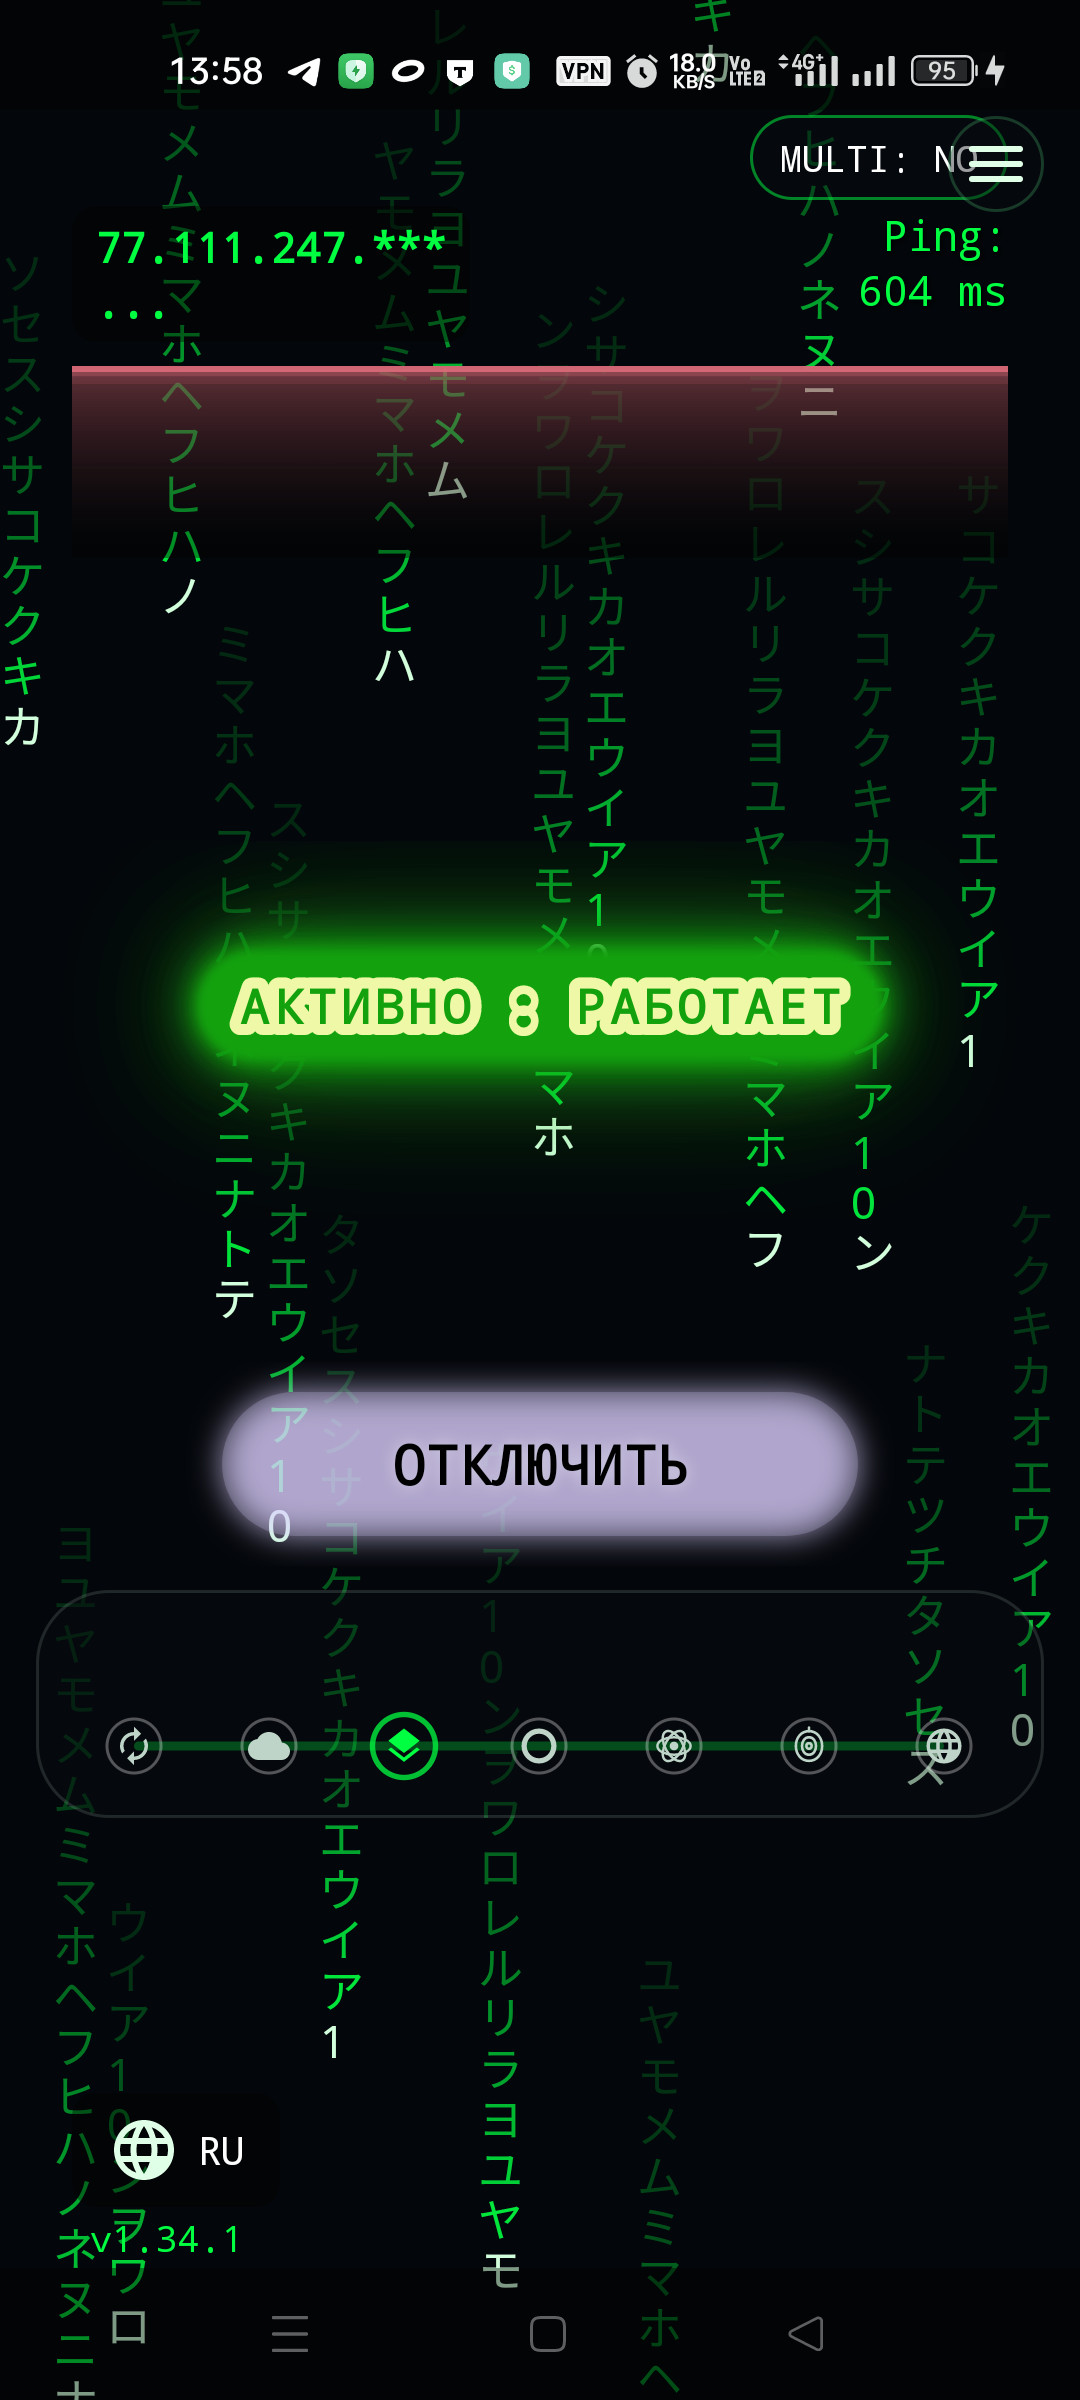
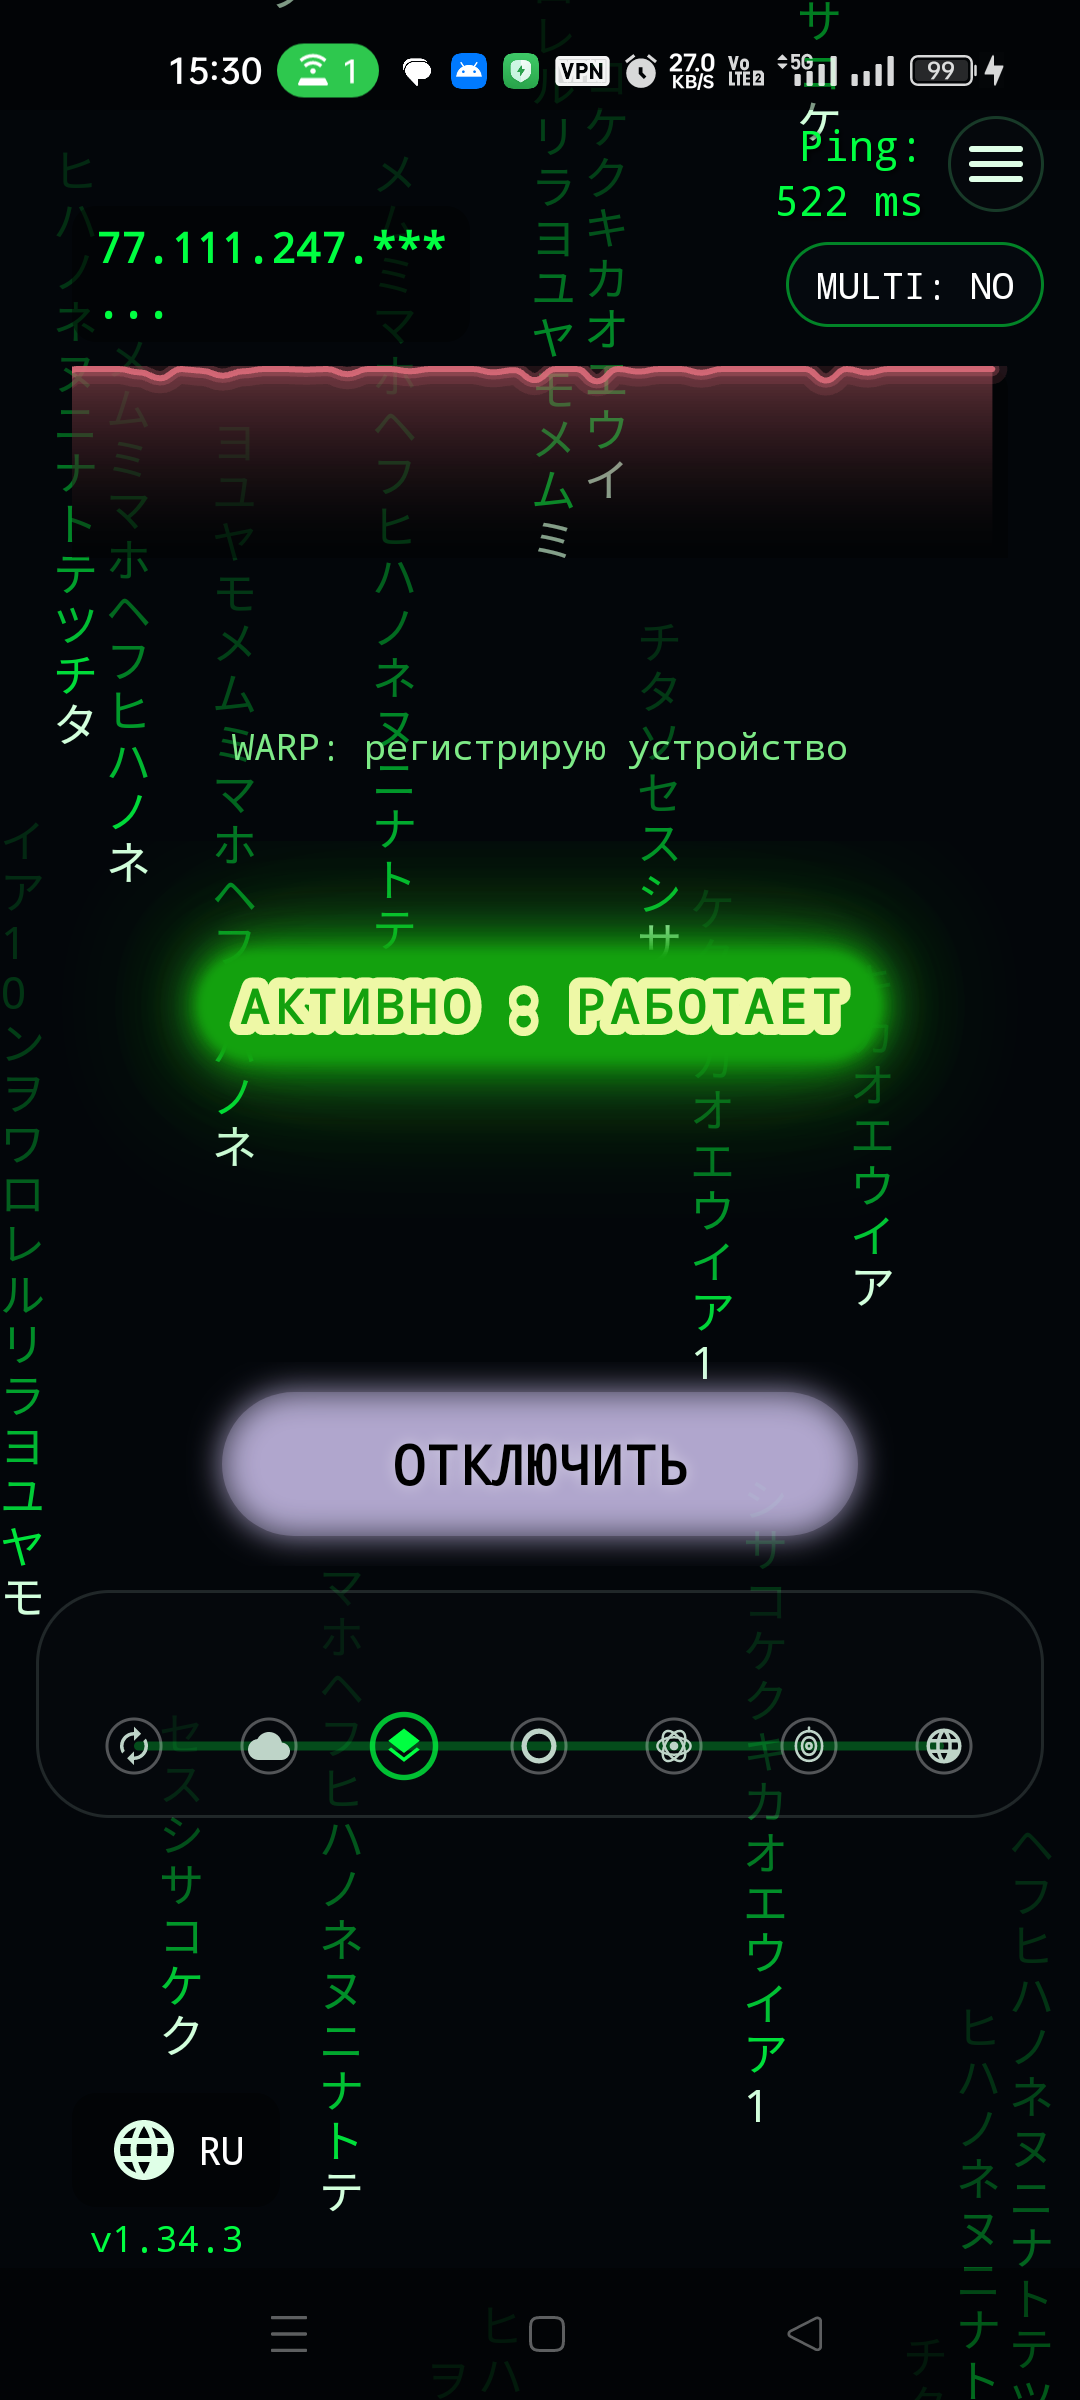
ui: ping left of hamburger, country badge under it (1.34.3)

diff --git a/app/src/main/java/com/example/nova/MainActivity.kt b/app/src/main/java/com/example/nova/MainActivity.kt
@@ -1484,6 +1484,10 @@ class MainActivity : AppCompatActivity() {
             set.connect(R.id.btn_install_update, end, split, start, dp(16))
             set.clear(R.id.tv_country_badge, bottom)
             set.connect(R.id.tv_country_badge, top, R.id.btnConnect, bottom, dp(10))
+            // В портрете пинг стоит слева от бейджа страны; в горизонтали бейдж
+            // уезжает в среднюю колонку, поэтому пинг возвращаем к графику.
+            set.connect(R.id.tv_internet_label, top, R.id.ll_ip_row, top, 0)
+            set.connect(R.id.tv_internet_label, end, R.id.graph_latency, end, 0)
             set.connect(R.id.graph_latency, start, logEdge, start, landscapeInsetLeft + dp(12))
             set.connect(R.id.graph_latency, end, split, start, dp(16))
             set.constrainHeight(R.id.graph_latency, dp(48))

diff --git a/docs/fork/VERIFICATION.md b/docs/fork/VERIFICATION.md
@@ -609,6 +609,22 @@ PIDs `:vpn` и `libnova-desync.so` не менялись, `tun0` на месте
 - MULTI с DESYNC как PRIMARY и Opera как SECONDARY: на этой сети регистрация
   Opera не проходит, поэтому SECONDARY отключается через 6 с / 3 плана, а
   сеанс продолжается.
+
+### Главный экран: правый верхний угол (2026-11-04, 1.34.3)
+
+- Устройство: realme RMX3370, 1080×2400, release `1.34.3` (167), установлен
+  поверх 1.34.2 (`adb install -r` → `Success`).
+- Отключённое состояние (бейдж `gone`): `tv_internet_label [774,116][924,228]`,
+  `btn_settings [948,116][1044,212]`, `tv_ip_address [72,206][470,342]` —
+  пересечений нет.
+- Подключённое состояние (MULTI): `tv_country_badge [786,242][1044,327]`,
+  `tv_internet_label [774,116][924,228]`, `btn_settings [948,116][1044,212]` —
+  бейдж под гамбургером, пинг слева от него, наложений нет.
+- Горизонталь (2160×1080): `tv_country_badge [691,703][949,788]` под
+  `btnConnect`, `tv_internet_label [1286,745][1436,857]` у графика — как и
+  задумано, пересечений нет.
+- Скриншоты: `docs/screenshots/main.png` (обновлён под 1.34.3).
+
 - Живой прогон: `nova-router` на 127.0.0.1:1373 (2 слота, 1 правило),
   `libnova-desync.so` на 1376, `tun0 10.1.11.1`, состояние `CONNECTED`
   (backend=MULTI). В `/proc/net/tcp` 13 соединений к роутеру и 9 к десинку;

diff --git a/docs/fork/CHANGELOG.md b/docs/fork/CHANGELOG.md
@@ -3,6 +3,17 @@
 > Формат: дата → что изменено → где → чем проверено. Все пути от корня
 > `C:\Users\User\Documents\Nova-Android-Fork`.
 
+## 2026-11-04 — 1.34.3 / versionCode 167
+
+- **UI:** исправлено наложение в правом верхнем углу, которое осталось в 1.34.2:
+  бейдж страны/режима стоял под гамбургером, но поверх подписи «Ping».
+  Теперь `tv_country_badge` — под `btn_settings` (8dp ниже, по его правому краю),
+  а `tv_internet_label` — слева от гамбургера в верхней строке. Горизонталь:
+  пинг возвращается к графику, бейдж остаётся в средней колонке под кнопкой.
+- Проверено на RMX3370 (1080×2400): `btn_settings [948,116][1044,212]`,
+  `tv_internet_label [774,116][924,228]`, `tv_country_badge [786,242][1044,327]` —
+  пересечений нет ни в отключённом, ни в подключённом состоянии.
+
 ## 2026-11-04 — 1.34.2 / versionCode 166
 
 - **DoH:** старый `https://geohide.ru/dns-query` снят. В умолчаниях первыми

diff --git a/docs/fork/AGENT-HANDOFF.md b/docs/fork/AGENT-HANDOFF.md
@@ -5,7 +5,7 @@
 
 ## 1. Текущее состояние
 
-- Ветка: `personal`, версия **1.34.2** / `versionCode 166` (OBNOVA).
+- Ветка: `personal`, версия **1.34.3** / `versionCode 167` (OBNOVA).
 - Официальный апдейтер APK выключен (`UPDATER_ENABLED = false`), UI обновлений
   скрыт. Облачные профили и подписки не тронуты.
 - Тема по умолчанию — **Matrix** с `MatrixRainView` (цифровой дождь).
@@ -61,7 +61,7 @@
 - Android SDK: `ANDROID_HOME=C:\Android`; AVD — `Pixel_7_Pro`.
 - Эмулятор: `& "$env:ANDROID_HOME\emulator\emulator.exe" -avd Pixel_7_Pro`
   (MCP `android-emulator` в глобальном конфиге выключен; используем adb/emulator).
-- Установка: `adb install -r app\build\outputs\apk\github\release\OBNOVA_1.34.1-arm64-v8a.apk`.
+- Установка: `adb install -r app\build\outputs\apk\github\release\OBNOVA_<версия>-arm64-v8a.apk`.
 - Логи: `adb logcat -s Nova:* AndroidRuntime:E`.
 
 ## 3. Где что менять

diff --git a/README.md b/README.md
@@ -2,7 +2,7 @@
 
 **OBNOVA** — личный форк [Nova Android](https://github.com/confeden/Nova-Android)
 с переработанной маршрутизацией, обновлённым интерфейсом и рядом новых
-возможностей. Версия **1.34.1 (versionCode 165)**, minSdk 24, targetSdk 34.
+возможностей. Версия **1.34.3 (versionCode 167)**, minSdk 24, targetSdk 34.
 
 > Это **форк**, а не официальная сборка Nova. Оригинальный проект, его авторы и
 > документация — в репозитории [confeden/Nova-Android](https://github.com/confeden/Nova-Android).
